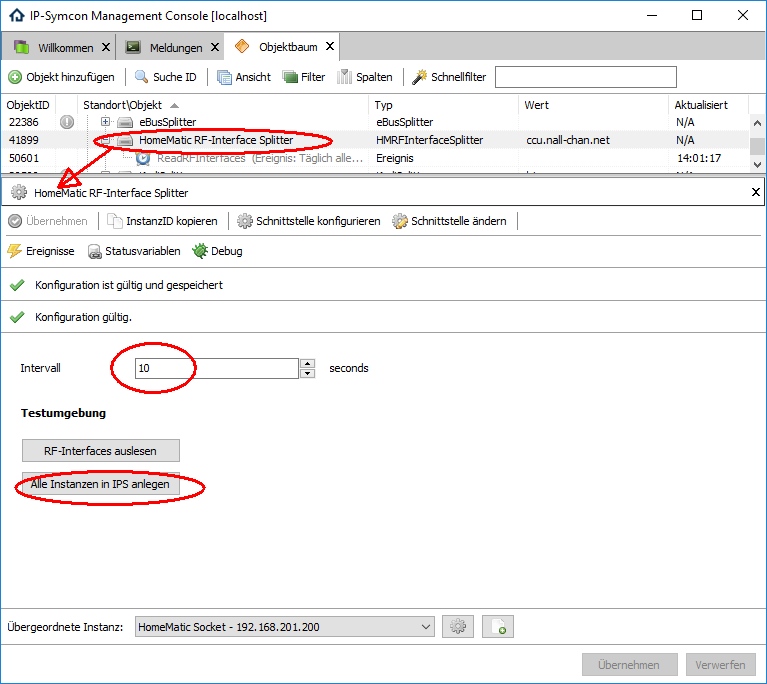
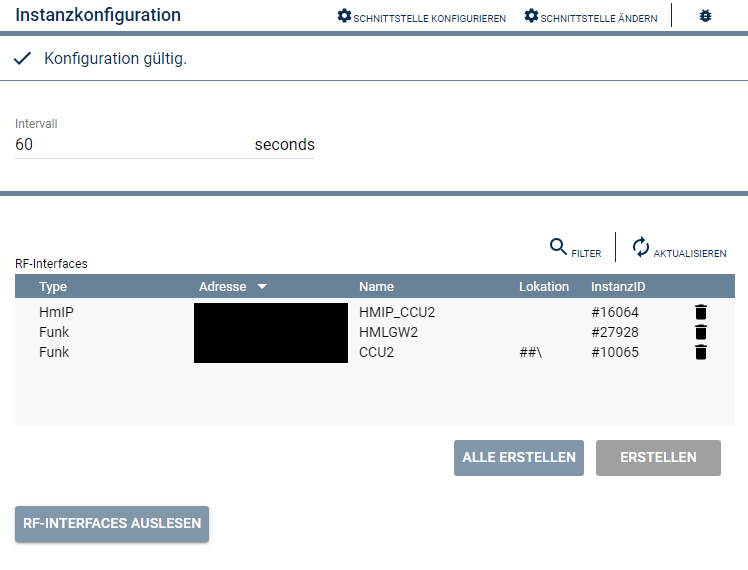
no message

diff --git a/RFInterfaceSplitter/module.php b/RFInterfaceSplitter/module.php
@@ -66,7 +66,6 @@ class HomeMaticRFInterfaceSplitter extends HMBase
     }
 
     //################# protected
-
     /**
      * Wird ausgeführt wenn der Kernel hochgefahren wurde.
      */
@@ -100,7 +99,6 @@ class HomeMaticRFInterfaceSplitter extends HMBase
     }
 
     //################# PRIVATE
-
     /**
      * Prüft die Konfiguration und setzt den Status der Instanz.
      *
@@ -155,7 +153,7 @@ class HomeMaticRFInterfaceSplitter extends HMBase
             'MethodName' => 'listBidcosInterfaces',
             'WaitTime'   => 5000,
             'Data'       => $data
-            ];
+        ];
         $ret = [];
         foreach ($Protocol as $ProtocolId) {
             $ParentData['Protocol'] = $ProtocolId;
@@ -177,61 +175,83 @@ class HomeMaticRFInterfaceSplitter extends HMBase
     }
 
     //################# PUBLIC
-
     /**
-     * IPS-Instanz-Funktion 'HM_CreateAllRFInstances'.
-     * Erzeugt alle Instanzen vom Typ RF-Interface, wenn diese noch nicht angelegt sind.
-     *
-     * @return array Array von IPS-IDs von den angelegten Instanzen.
+     * Interne Funktion des SDK.
      */
-    public function CreateAllRFInstances()
+    public function GetConfigurationForm()
     {
-        $DevicesIDs = IPS_GetInstanceListByModuleID('{36549B96-FA11-4651-8662-F310EEEC5C7D}');
-        $CreatedDevices = [];
-        $KnownDevices = [];
-        foreach ($DevicesIDs as $Device) {
-            $KnownDevices[] = IPS_GetProperty($Device, 'Address');
+        $Form = json_decode(file_get_contents(__DIR__ . '/form.json'), true);
+        if (!$this->HasActiveParent()) {
+            $Form['actions'][] = [
+                'type'  => 'PopupAlert',
+                'popup' => [
+                    'items' => [[
+                    'type'    => 'Label',
+                    'caption' => 'Instance has no active parent instance!'
+                        ]]
+                ]
+            ];
+            $this->SendDebug('FORM', json_encode($Form), 0);
+            $this->SendDebug('FORM', json_last_error_msg(), 0);
+
+            return json_encode($Form);
         }
+        $DevicesIDs = IPS_GetInstanceListByModuleID('{36549B96-FA11-4651-8662-F310EEEC5C7D}');
+        $InstanceIDList = [];
+        foreach ($DevicesIDs as $Device) {
+            if (IPS_GetInstance($Device)['ConnectionID'] == $this->InstanceID) {
+                $InstanceIDList[$Device] = IPS_GetProperty($Device, 'Address');
+            }
+        }
+        $Liste = [];
         $Result = $this->GetInterfaces();
         foreach ($Result as $ProtocolID => $Protocol) {
             if (!is_array($Protocol)) {
                 continue;
             }
             foreach ($Protocol as $InterfaceIndex => $Interface) {
-                if (in_array($Interface->ADDRESS, $KnownDevices)) {
-                    continue;
+                switch ($ProtocolID) {
+                    case 0:
+                        $Type = 'Funk';
+                        break;
+                    case 2:
+                        $Type = 'HmIP';
+                        break;
+                    default:
+                        $Type = 'unknow';
+                        break;
                 }
-                $NewDevice = IPS_CreateInstance('{36549B96-FA11-4651-8662-F310EEEC5C7D}');
-                if (property_exists($Interface, 'TYPE')) {
-                    IPS_SetName($NewDevice, $Interface->TYPE);
+                $InstanceID = array_search($Interface->ADDRESS, $InstanceIDList);
+                if ($InstanceID !== false) {
+                    $AddValue = [
+                        'instanceID' => $InstanceID,
+                        'name'       => IPS_GetName($InstanceID),
+                        'type'       => $Type,
+                        'address'    => $Interface->ADDRESS,
+                        'location'   => stristr(IPS_GetLocation($InstanceID), IPS_GetName($InstanceID), true)
+                    ];
+                    unset($InstanceIDList[$InstanceID]);
                 } else {
-                    switch ($ProtocolID) {
-                        case 0:
-                            $Name = 'Funk';
-                            break;
-                        case 2:
-                            $Name = 'HmIP';
-                            break;
-                        default:
-                            $Name = 'unknow';
-                            break;
-                    }
-                    IPS_SetName($NewDevice, $Name . ' - Interface ' . $InterfaceIndex);
+                    $AddValue = [
+                        'instanceID' => 0,
+                        'name'       => $Interface->TYPE,
+                        'type'       => $Type,
+                        'address'    => $Interface->ADDRESS,
+                        'location'   => ''
+                    ];
                 }
-                if (IPS_GetInstance($NewDevice)['ConnectionID'] != $this->InstanceID) {
-                    @IPS_DisconnectInstance($NewDevice);
-                    IPS_ConnectInstance($NewDevice, $this->InstanceID);
-                }
-                IPS_SetProperty($NewDevice, 'Address', $Interface->ADDRESS);
-                IPS_ApplyChanges($NewDevice);
-                $CreatedDevices[] = $NewDevice;
+                $AddValue['create'] = [
+                    'moduleID'      => '{36549B96-FA11-4651-8662-F310EEEC5C7D}',
+                    'configuration' => ['Address' => $Interface->ADDRESS]
+                ];
+                $Liste[] = $AddValue;
             }
         }
-        if (count($CreatedDevices) > 0) {
-            $this->ReadRFInterfaces();
-        }
-
-        return $CreatedDevices;
+        $Form['actions'][0]['values'] = $Liste;
+        $Form['actions'][0][0]['rowCount'] = count($Liste) + 1;
+        $this->SendDebug('FORM', json_encode($Form), 0);
+        $this->SendDebug('FORM', json_last_error_msg(), 0);
+        return json_encode($Form);
     }
 
     /**
@@ -258,6 +278,7 @@ class HomeMaticRFInterfaceSplitter extends HMBase
         }
         return $ret;
     }
+
 }
 
 /* @} */

diff --git a/RFInterfaceSplitter/README.md b/RFInterfaceSplitter/README.md
@@ -40,7 +40,7 @@ Dieses Modul ist Bestandteil der HomeMaticExtended-Library.
 
 ![RFInterface](../docs/RFInterfaceSplitter.png)  
 
-   Über den Button 'Alle Instanzen in IPS anlegen' werden automatisch alle an der CCU vorhandenen Funk-Interfaces als Instanz in IPS erzeugt.  
+   Über den Button 'Alle erstellen' werden automatisch alle an der CCU vorhandenen Funk-Interfaces als Instanz in IPS erzeugt.  
    Des weiteren ist in dem Splitter der Intervall in Sekunden einzustellen, in welchem die Daten von der CCU gelesen werden sollen.  
 
 | Eigenschaft     | Typ     | Standardwert | Funktion                                      |
